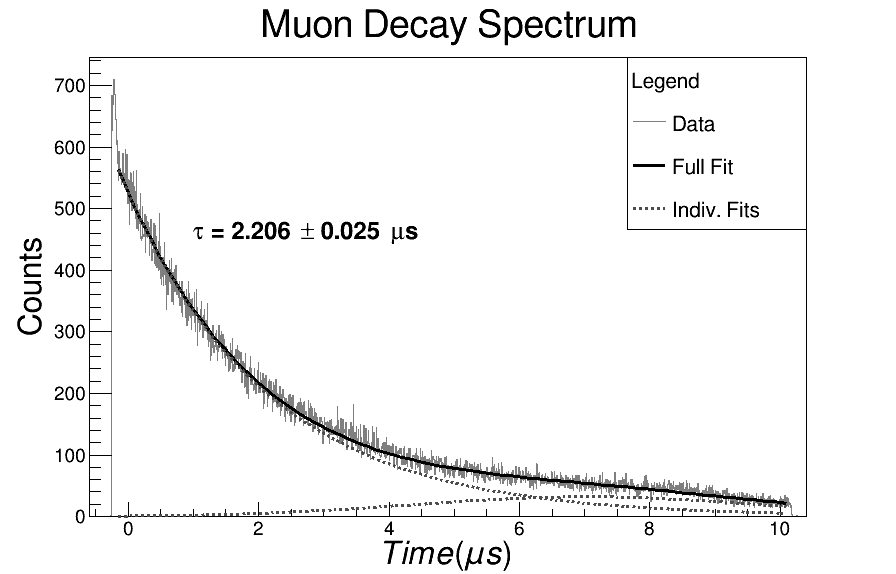
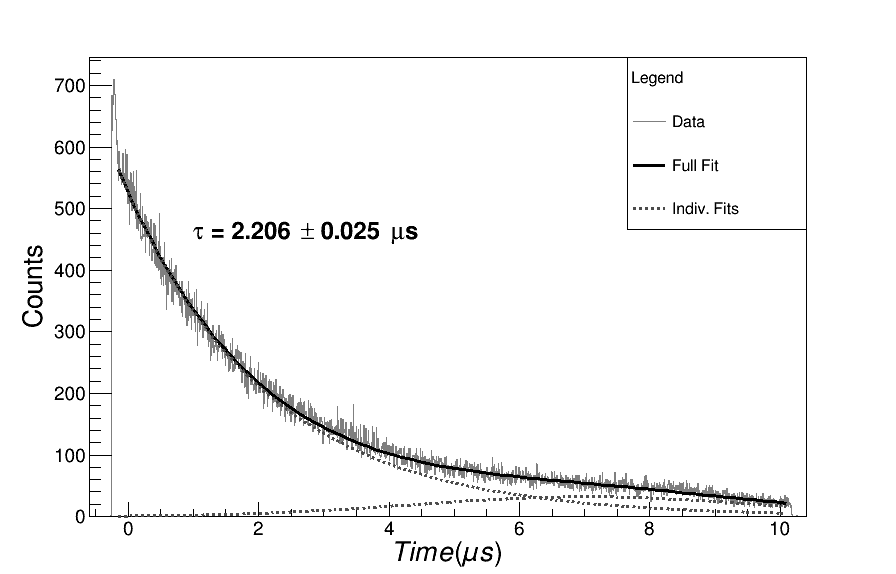
Muon analysis again

diff --git a/Muon/analysis.C b/Muon/analysis.C
@@ -63,17 +63,17 @@ int analysis(){
 	gausFit->Draw("same");
 
 // Making everything look pretty
-	hcal -> SetTitle("Muon Decay Spectrum");
-	gStyle->SetTitleFontSize(0.07);
+	hcal -> SetTitle("");
+	gStyle->SetTitleFontSize(0.001);
 
 	hcal -> GetXaxis()->SetTitle("Time (\\mu s)");
-	hcal -> GetXaxis()->SetTitleSize(0.06);
-	hcal -> GetXaxis()->SetTitleOffset(0.7);
+	hcal -> GetXaxis()->SetTitleSize(0.05);
+	hcal -> GetXaxis()->SetTitleOffset(0.8);
 	hcal -> GetXaxis()->CenterTitle();
 
 	hcal -> GetYaxis()->SetTitle("Counts");
-	hcal -> GetYaxis()->SetTitleSize(0.06);
-	hcal -> GetYaxis()->SetTitleOffset(0.7);
+	hcal -> GetYaxis()->SetTitleSize(0.05);
+	hcal -> GetYaxis()->SetTitleOffset(0.8);
 	hcal -> GetYaxis()->CenterTitle();
 
 // Using TLatex maybe IDK
@@ -91,7 +91,7 @@ int analysis(){
 
 // Making a legend
 	leg = new TLegend( 0.7 , 0.6 , 0.9 , 0.9 );
-	leg->SetTextSize(0.04);
+	leg->SetTextSize(0.03);
 	leg->SetHeader("Legend");
 	leg->AddEntry( hcal , "Data" , "l" );
 	leg->AddEntry( fit , "Full Fit" , "l" );
